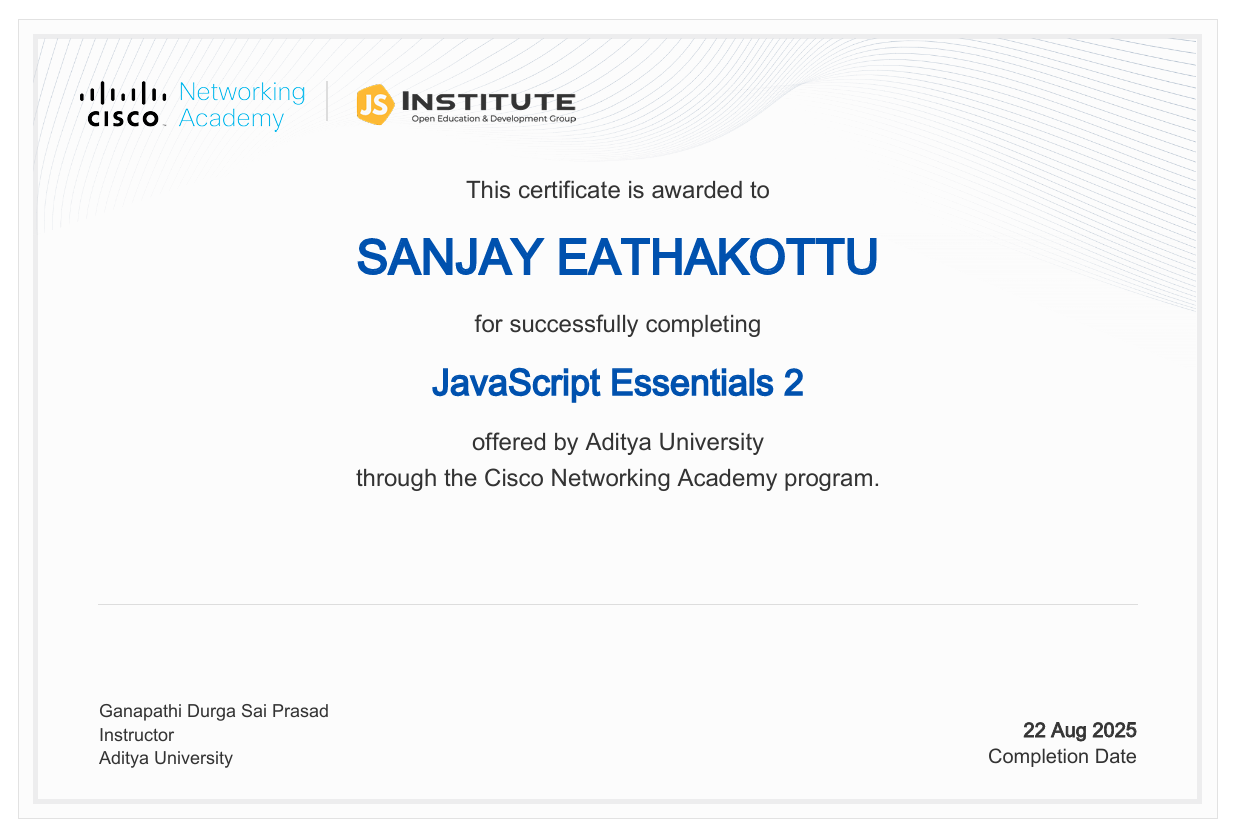
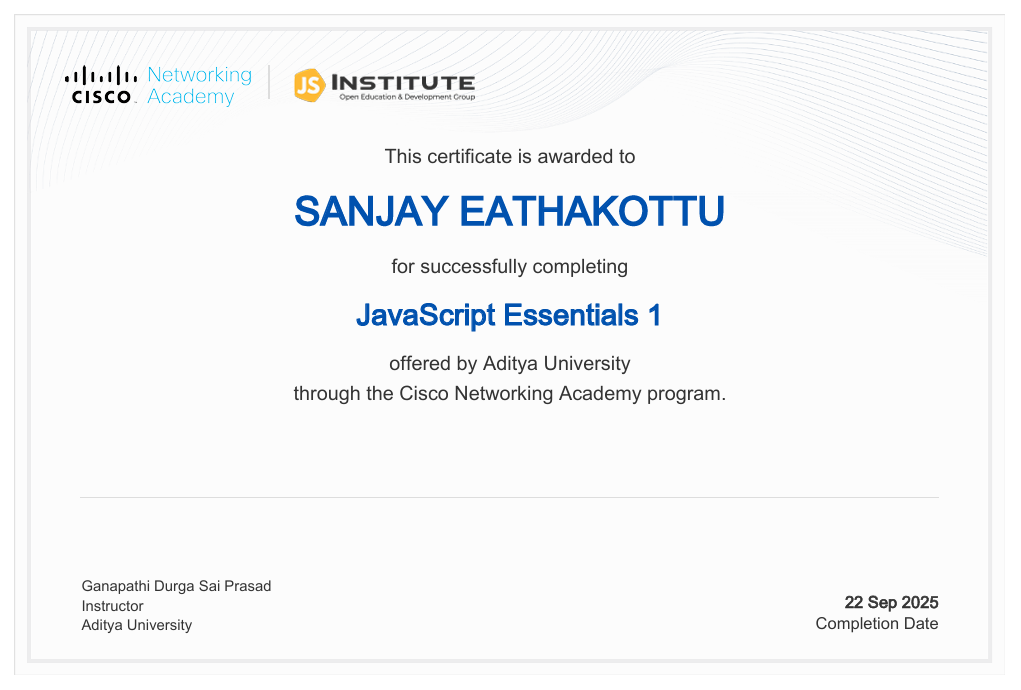
added all files

diff --git a/src/Components/MyCertificates/MyCertificate.jsx b/src/Components/MyCertificates/MyCertificate.jsx
@@ -7,11 +7,16 @@ import javaCertificate from '../../assets/images/javaFunCf.png';
 import pythonCertificate from '../../assets/images/pythonCf.png';
 import htmlCertificate from '../../assets/images/htmlCf.png';
 import cssCertificate from '../../assets/images/cssCf.png';
-import javaScriptCertificate from '../../assets/images/javaScriptCf.png';
+import javaScriptCertificate2 from '../../assets/images/javaScriptCf2.png';
+import pythonCertificateLD from '../../assets/images/pythonCfLinkedin.png';
+import htmlandCssCertificateLD from '../../assets/images/htmlAndCssLinkedin.png';
+import javaScriptCertificate1 from '../../assets/images/javaScriptCf.png';
 
 function MyCertificate(props) {
     const settings = {
         dots: true,
+
+
         infinite: true,
         speed: 500,
         slidesToShow: 1,
@@ -70,9 +75,28 @@ function MyCertificate(props) {
         {
             id: 5,
             name: 'javascript',
-            image: javaScriptCertificate,
+            image: javaScriptCertificate1,
             alt: 'JavaScript Certificate',
-        }
+        },
+        {
+            id: 6,
+            name: 'javascript-2',
+            image: javaScriptCertificate2,
+            alt: 'JavaScript Certificate (2nd attempt)',
+        },
+        {
+            id: 7,
+            name: 'python-linkedin',
+            image: pythonCertificateLD,
+            alt: 'Python Certificate (LinkedIn)',
+        },
+        {
+            id: 8,
+            name: 'html-and-css',
+            image: htmlandCssCertificateLD,
+            alt: 'HTML and CSS Certificate (LinkedIn)',
+        },
+
     ];
 
     return (

diff --git a/src/Components/Navbar1/Navbar.jsx b/src/Components/Navbar1/Navbar.jsx
@@ -1,19 +1,25 @@
 import React from 'react';
 import './Navbar.css';
-import {Link} from 'react-router-dom';
+import {Link, useLocation} from 'react-router-dom';
+import {useEffect, useState} from'react';
 
 function Navbar() {
+    const Location = useLocation();
+    const [activeLink, setActiveLink] = useState(Location.pathname);
+    useEffect(() => {
+        setActiveLink(Location.pathname);
+    },[Location]);
     return (
         <section className="navbar-section">
             <div className="navbar">
                 <ul className="nav-items">
-                    <Link to='/' className="nav-link js-nav-items active">
+                    <Link to='/' className={`nav-link js-nav-items ${activeLink === '/' ? 'active' : ''}`} onClick={() => setActiveLink('/')}>
                         <li>Home</li>
                     </Link>
-                    <Link to='/About' className="nav-link js-nav-items">
+                    <Link to='/About' className={`nav-link js-nav-items ${activeLink === '/About' ? 'active' : ''}`} onClick={() => setActiveLink('/About')}>
                         <li>About</li>
                     </Link>
-                    <Link to='/Contact' className="nav-link js-nav-items">
+                    <Link to='/Contact' className={`nav-link js-nav-items ${activeLink === '/Contact' ? 'active' : ''}`} onClick={() => setActiveLink('/Contact')}>
                         <li>Contact</li>
                     </Link>
                 </ul>

diff --git a/src/Components/Navbar1/Navbar.css b/src/Components/Navbar1/Navbar.css
@@ -20,6 +20,9 @@
     border-radius: 10rem;
     box-shadow: .5rem .5rem 100rem #b6b6b6;
 }
+.nav-items li {
+    color: black;
+}
 .nav-link {
     padding: .8rem 1.5rem;
     border-radius: 10rem;

diff --git a/src/Components/MyProjects/MyProjects.css b/src/Components/MyProjects/MyProjects.css
@@ -18,7 +18,7 @@
 }
 /*toogle buttons styles*/
 .toogle-buttons {
-    width: 40%;
+    width: 20%;
     height: 5rem;
     background-color: white;
     padding: 1rem;

diff --git a/src/Components/ContactHeroSection/ContactHeroSection.css b/src/Components/ContactHeroSection/ContactHeroSection.css
@@ -78,6 +78,6 @@
 }
 .hori-line {
     width: 50%;
-    height: 0.5rem;
+    height: .7rem;
     background-color: #8e733c;
 }
